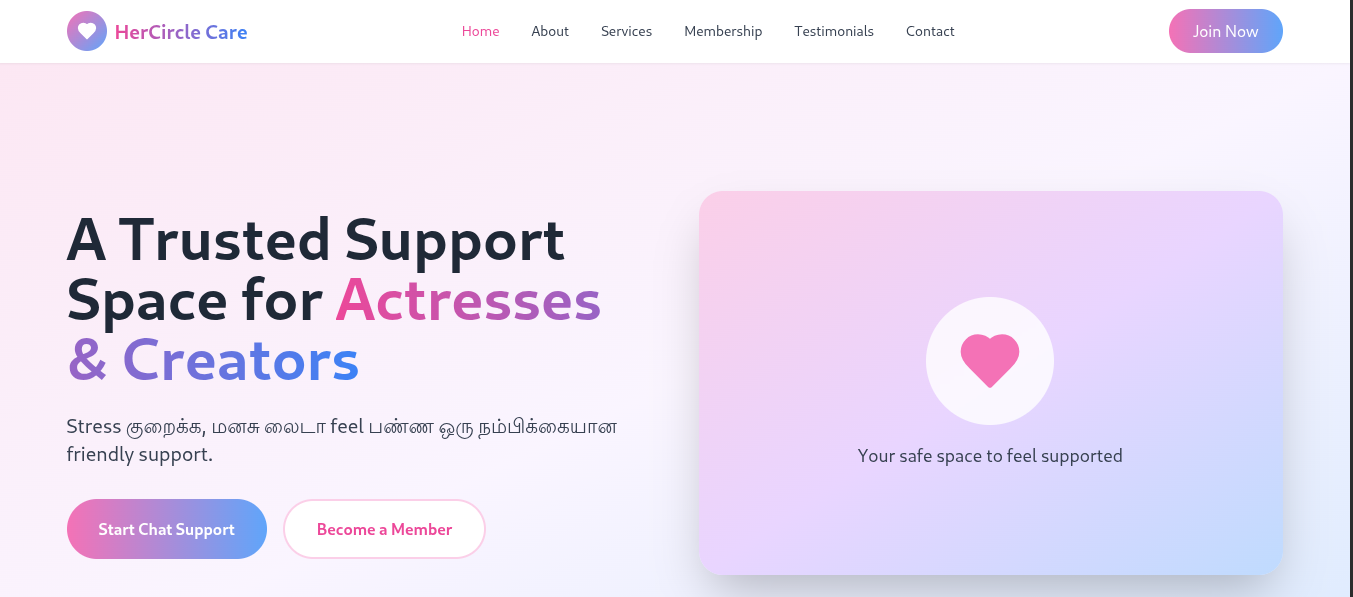
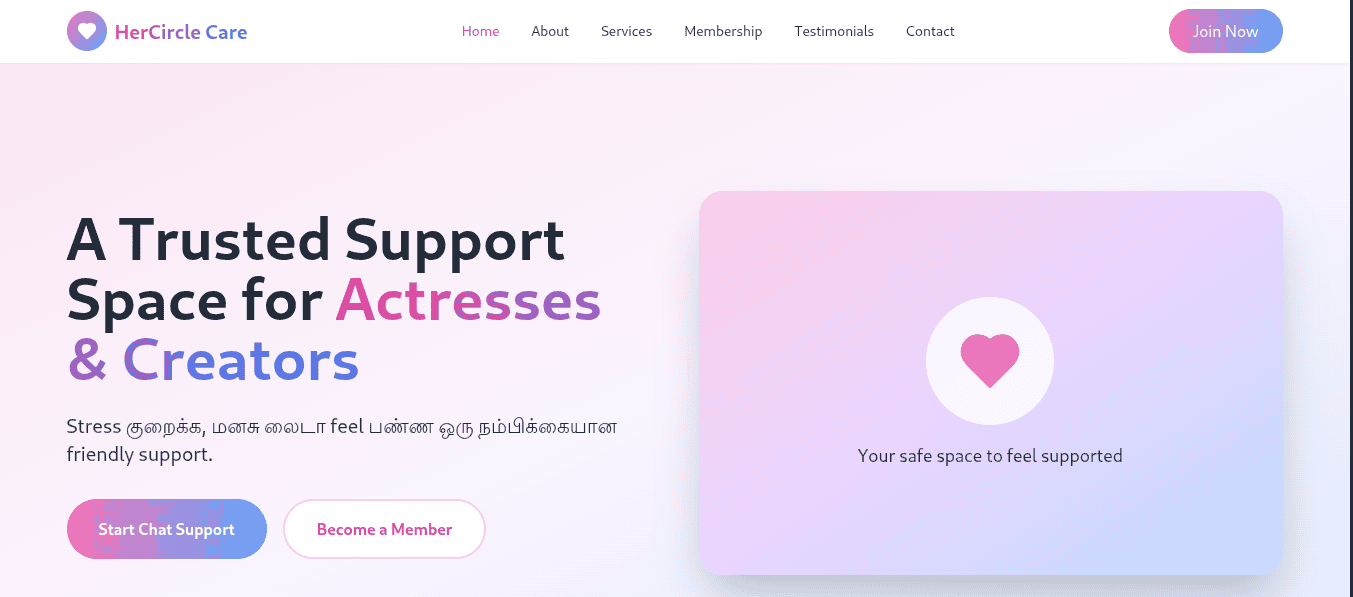
Improve website loading speed by optimizing images and component loading
Compresses large image assets and removes lazy loading for critical components like Navbar and AnimatedBackground to reduce initial load times and eliminate blank screen flashes.

Replit-Commit-Author: Agent
Replit-Commit-Session-Id: 2928cd5b-e523-4763-bf0d-206f3ff04dfe
Replit-Commit-Checkpoint-Type: full_checkpoint
Replit-Commit-Event-Id: 5ff163e7-d0a8-4538-9a91-0317b3b8b836
Replit-Commit-Screenshot-Url: https://storage.googleapis.com/screenshot-production-us-central1/fe81329d-cd92-4c38-8df3-b8c913e55697/2928cd5b-e523-4763-bf0d-206f3ff04dfe/1NmlT2c
Replit-Helium-Checkpoint-Created: true

diff --git a/client/src/App.tsx b/client/src/App.tsx
@@ -1,9 +1,11 @@
-import { Suspense, lazy, createContext, useContext, useEffect, useState } from "react";
+import { Suspense, lazy, createContext, useContext } from "react";
 import { Switch, Route } from "wouter";
 import { queryClient } from "./lib/queryClient";
 import { QueryClientProvider } from "@tanstack/react-query";
 import { Toaster } from "@/components/ui/toaster";
 import { TooltipProvider } from "@/components/ui/tooltip";
+import Navbar from "@/components/Navbar";
+import AnimatedBackground from "@/components/AnimatedBackground";
 
 // Performance context for mobile optimizations
 const PerformanceContext = createContext({
@@ -17,13 +19,11 @@ export const usePerformance = () => useContext(PerformanceContext);
 // Loading component for Suspense fallback
 const LoadingSpinner = () => (
   <div className="min-h-screen flex items-center justify-center bg-background">
-    <div className="animate-spin rounded-full h-12 w-12 border-b-2 border-primary"></div>
+    <div className="animate-spin rounded-full h-8 w-8 border-b-2 border-primary"></div>
   </div>
 );
 
-// Lazy load components for better performance
-const AnimatedBackground = lazy(() => import("@/components/AnimatedBackground"));
-const Navbar = lazy(() => import("@/components/Navbar"));
+// Lazy load footer (not critical for initial view)
 const Footer = lazy(() => import("@/components/Footer"));
 
 // Lazy load pages with code splitting
@@ -77,25 +77,19 @@ function App() {
   return (
     <QueryClientProvider client={queryClient}>
       <TooltipProvider>
-        <Suspense fallback={<LoadingSpinner />}>
-          <div className="min-h-screen flex flex-col">
-            <Suspense fallback={null}>
-              <AnimatedBackground />
+        <div className="min-h-screen flex flex-col">
+          <AnimatedBackground />
+          <Navbar />
+          <main className="flex-1">
+            <Suspense fallback={<LoadingSpinner />}>
+              <Router />
             </Suspense>
-            <Suspense fallback={null}>
-              <Navbar />
-            </Suspense>
-            <main className="flex-1">
-              <Suspense fallback={<LoadingSpinner />}>
-                <Router />
-              </Suspense>
-            </main>
-            <Suspense fallback={null}>
-              <Footer />
-            </Suspense>
-          </div>
-          <Toaster />
-        </Suspense>
+          </main>
+          <Suspense fallback={null}>
+            <Footer />
+          </Suspense>
+        </div>
+        <Toaster />
       </TooltipProvider>
     </QueryClientProvider>
   );
